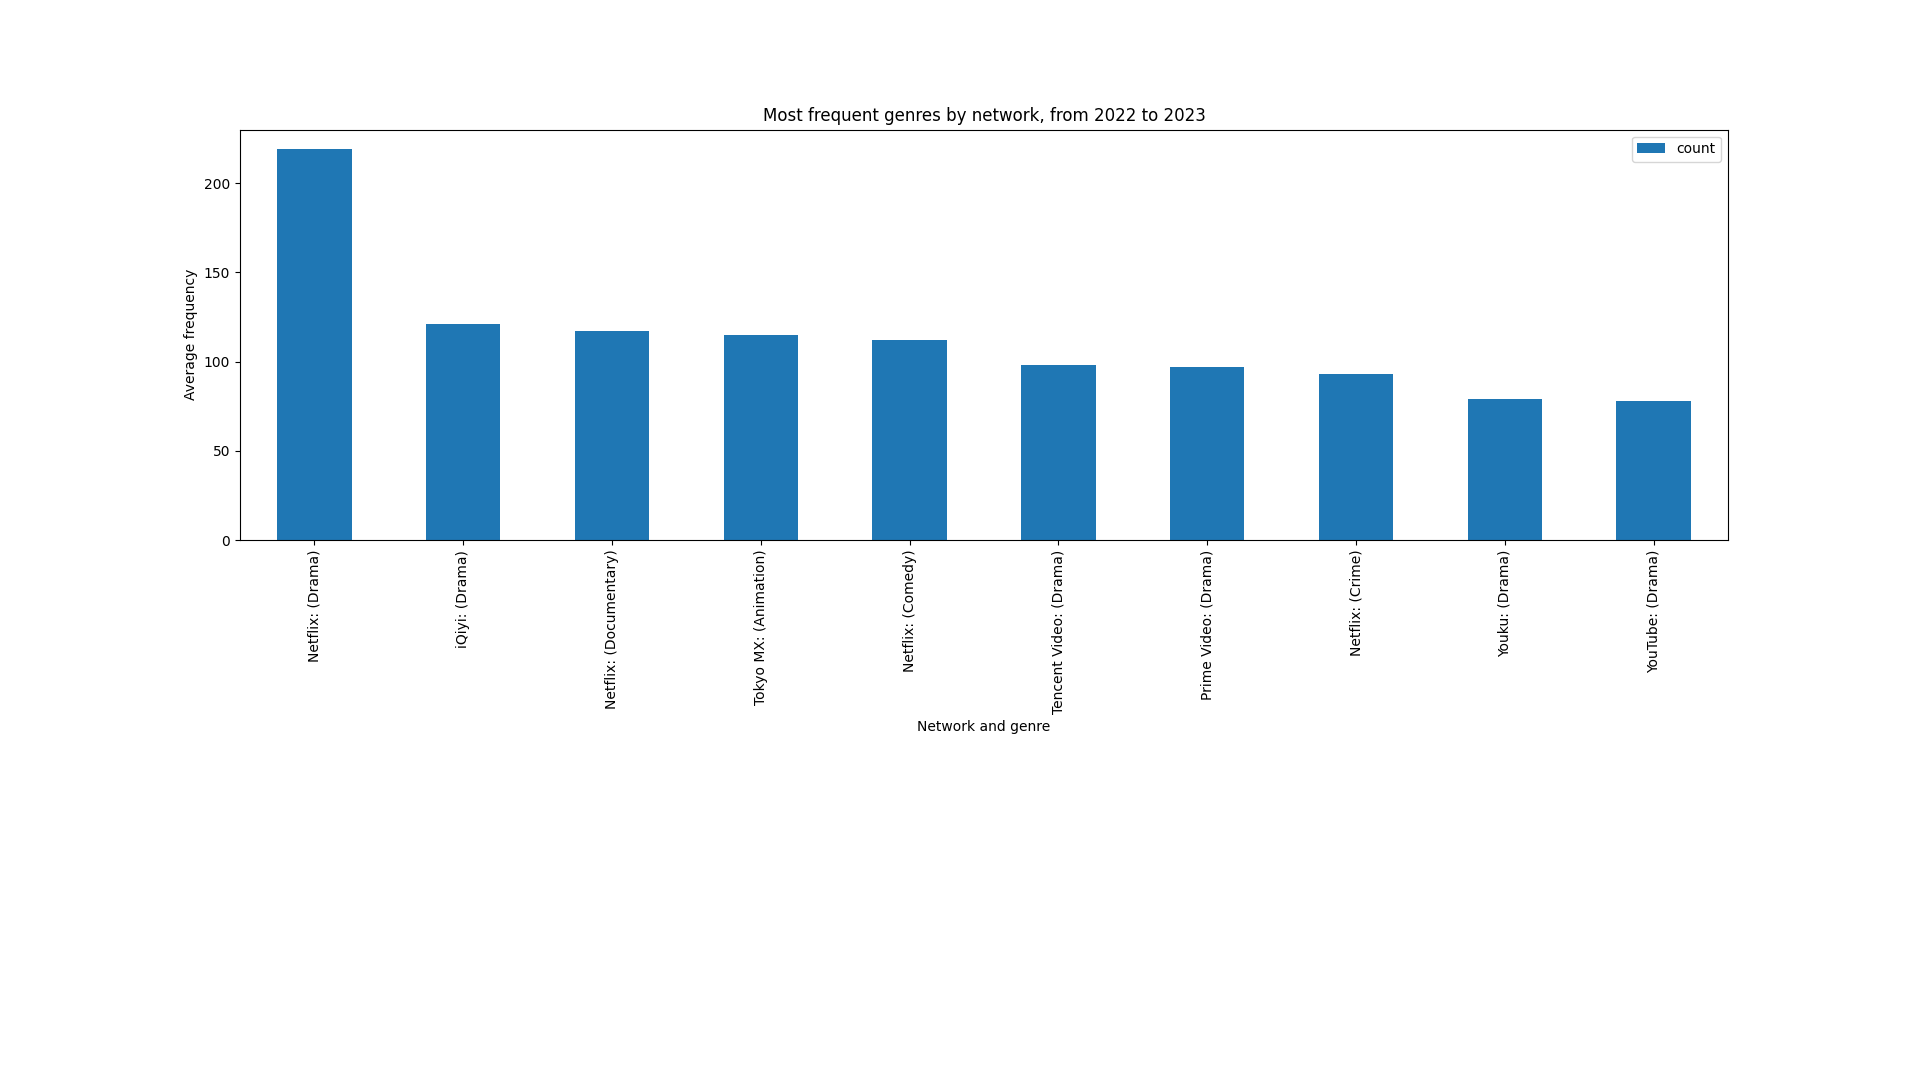
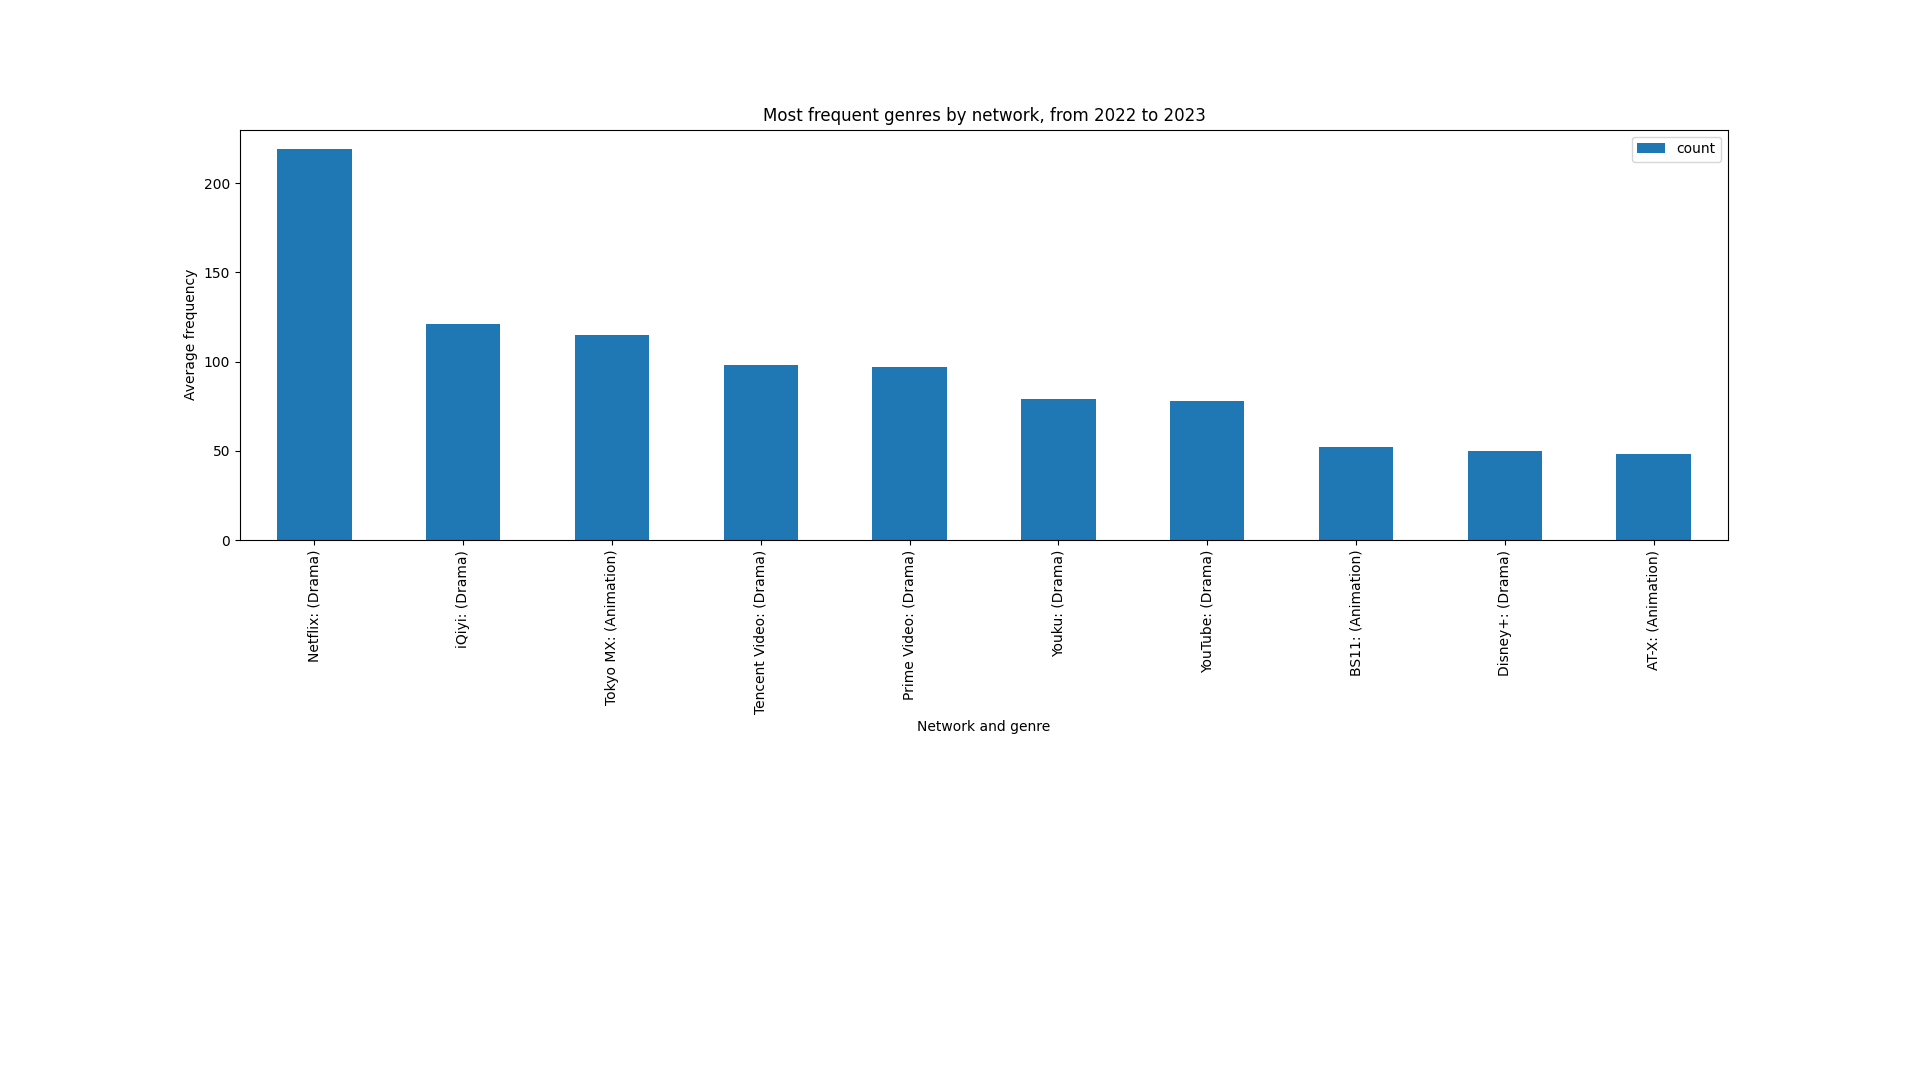
fixing an error in the second hypothesis

diff --git a/src/silvio_hypothesis.py b/src/silvio_hypothesis.py
@@ -50,7 +50,7 @@ def most_frequent_genre(top_n : int, shows_minimum : int=0, years_interval : lis
     top_data = raw_data.loc[data_idx].copy()
 
     #creating the output for the plot
-    top_data = raw_data.sort_values('count', ascending=False).head(top_n)
+    top_data = top_data.sort_values('count', ascending=False).head(top_n)
     top_data['for_plot'] = top_data['networks'] + ": (" + top_data['genres'] + ")"
     
     if top_data.empty:
